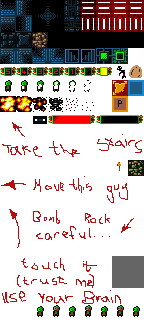
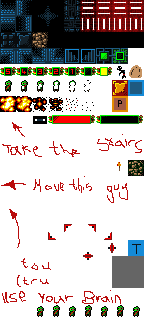
Add diagonal barrel shooters

diff --git a/src/level_editor.py b/src/level_editor.py
@@ -235,6 +235,41 @@ class LevelData():
                 },
             }
 
+        if tile_object.type == 'barrel_down_left':
+            type_map = {
+                'barrel_down_left': {
+                    **common,
+                    'direction': 'down_left',
+                    'level': self,
+                },
+            }
+        if tile_object.type == 'barrel_down_right':
+            type_map = {
+                'barrel_down_right': {
+                    **common,
+                    'direction': 'down_right',
+                    'level': self,
+                },
+            }
+
+        if tile_object.type == 'barrel_up_left':
+            type_map = {
+                'barrel_up_left': {
+                    **common,
+                    'direction': 'up_left',
+                    'level': self,
+                },
+            }
+
+        if tile_object.type == 'barrel_up_right':
+            type_map = {
+                'barrel_up_right': {
+                    **common,
+                    'direction': 'up_right',
+                    'level': self,
+                },
+            }
+
         if tile_object.type == 'light_source':
             type_map = {
                 'light_source': {
@@ -269,6 +304,8 @@ class LevelData():
         try:
             return factory.build(tile_object.type, **type_map[tile_object.type])
         except KeyError:
+            logger.LOGGER.info('Invalid key "' + tile_object.type + '" passed to factory for level: ' + self.tmx_file)
+        except UnboundLocalError:
             logger.LOGGER.info('Invalid key "' + tile_object.type + '" passed to factory for level: ' + self.tmx_file)
 
     def link_portals(self):

diff --git a/src/scenes/levelbase.py b/src/scenes/levelbase.py
@@ -54,13 +54,13 @@ class LevelBase(scene_base.SceneBase):
             tape = self.tiled_level.get_video_tape(self.tiled_level.sprites)
             self.tiled_level.sprites.remove(tape)
 
-    def check_player_hasnt_died_a_horrible_death(self):
+    def check_player_hasnt_died_a_horrible_death(self, dt):
         """If the player has been destroyed, restart the level"""
-        if self.player.is_dead():
+        if self.player.is_dead(dt):
             self.reset()
 
     def update(self, delta_time):
-        self.check_player_hasnt_died_a_horrible_death()
+        self.check_player_hasnt_died_a_horrible_death(delta_time)
         self.player.update(delta_time)
 
         self.sprites.update(delta_time)

diff --git a/src/game_object/actor.py b/src/game_object/actor.py
@@ -194,12 +194,17 @@ class Actor(entity.Entity):
             ))
             self.remaining_bombs -= 1
 
-    def is_dead(self):
+    def is_dead(self, dt):
         """Returns true if the player is dead"""
+        if self not in self.tiled_level.sprites:
+            self.animate_death(dt)
         return self not in self.tiled_level.sprites
 
     def animate(self):
         pass
+
+    def animate_death(self, dt):
+        print('dying')
 
     def update_bomb_collection(self):
         """Makes sure that not only do we process the bombs that we planted, but also

diff --git a/src/tile_factory.py b/src/tile_factory.py
@@ -46,7 +46,11 @@ class TileFactory():
             'barrel_left': Barrel,
             'barrel_right': Barrel,
             'barrel_up': Barrel,
+            'barrel_up_left': Barrel,
+            'barrel_up_right': Barrel,
             'barrel_down': Barrel,
+            'barrel_down_left': Barrel,
+            'barrel_down_right': Barrel,
         }
 
         return tile_map[tile_type](**kwargs)

diff --git a/src/movement_vector.py b/src/movement_vector.py
@@ -3,6 +3,10 @@ vector = {
     'down'   : (0, 1),
     'left'   : (-1, 0),
     'right'  : (1, 0),
-    'nothing': (0, 0)
+    'nothing': (0, 0),
+    'up_right' : (1, -1),
+    'up_left' : (-1, -1),
+    'down_right' : (1, 1),
+    'down_left' : (-1, 1),
 }
 
